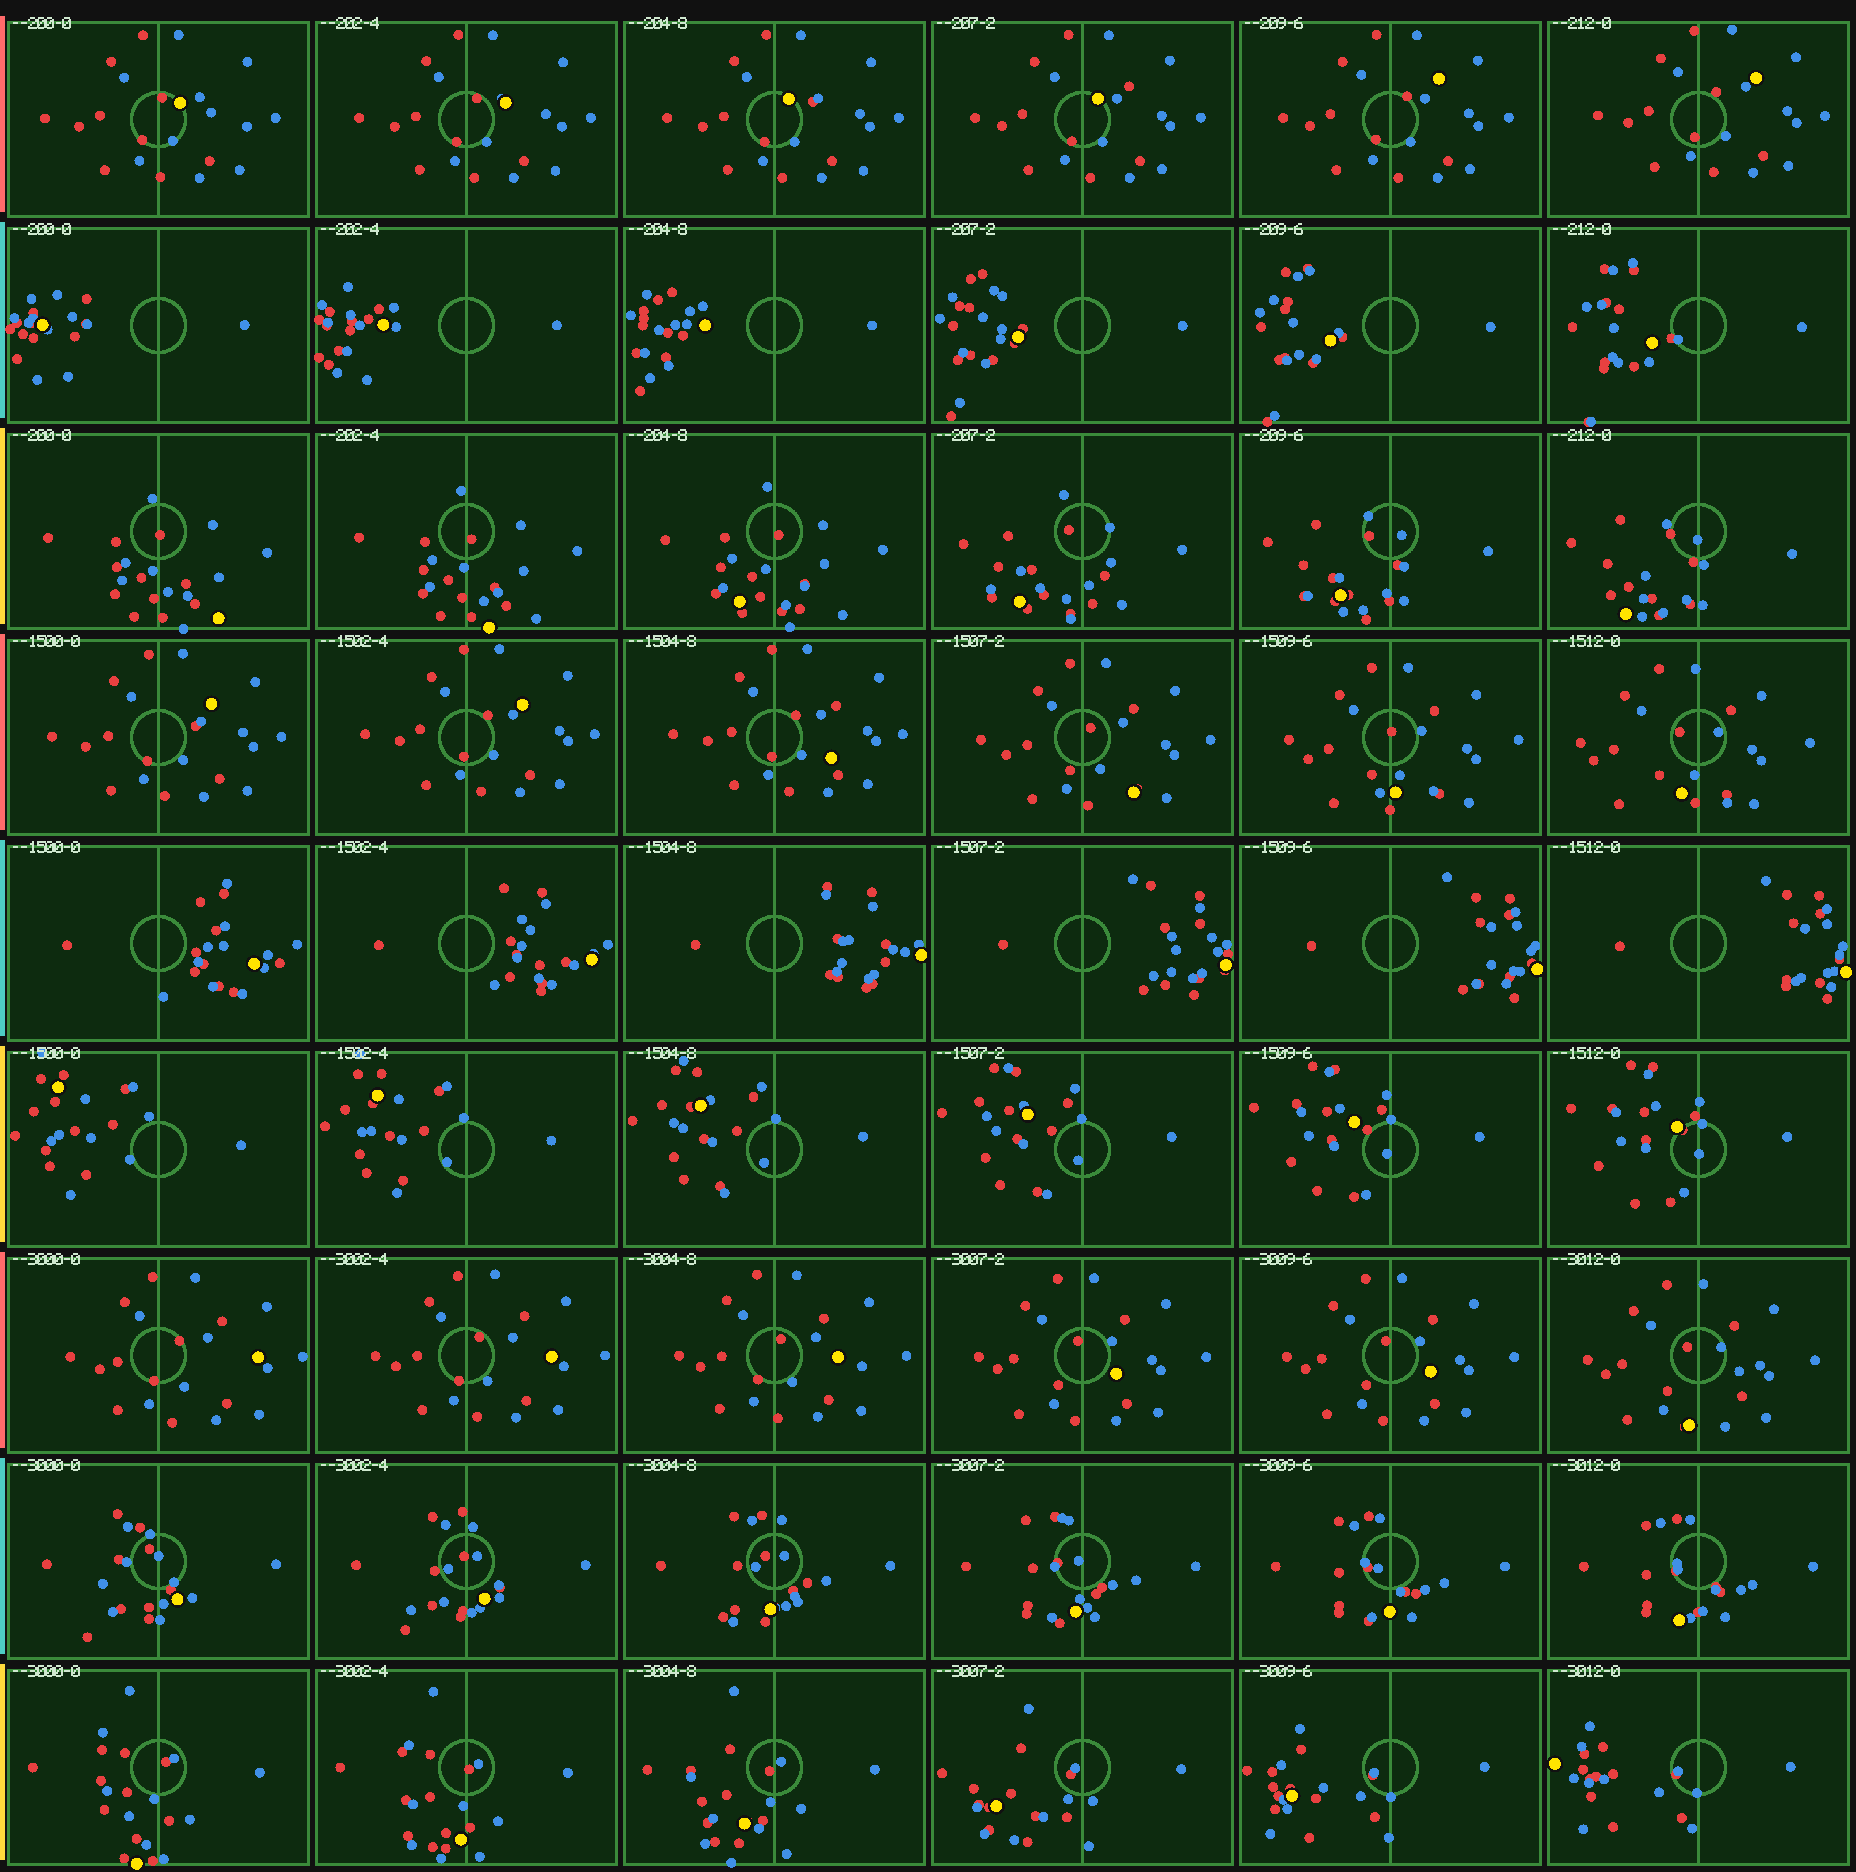
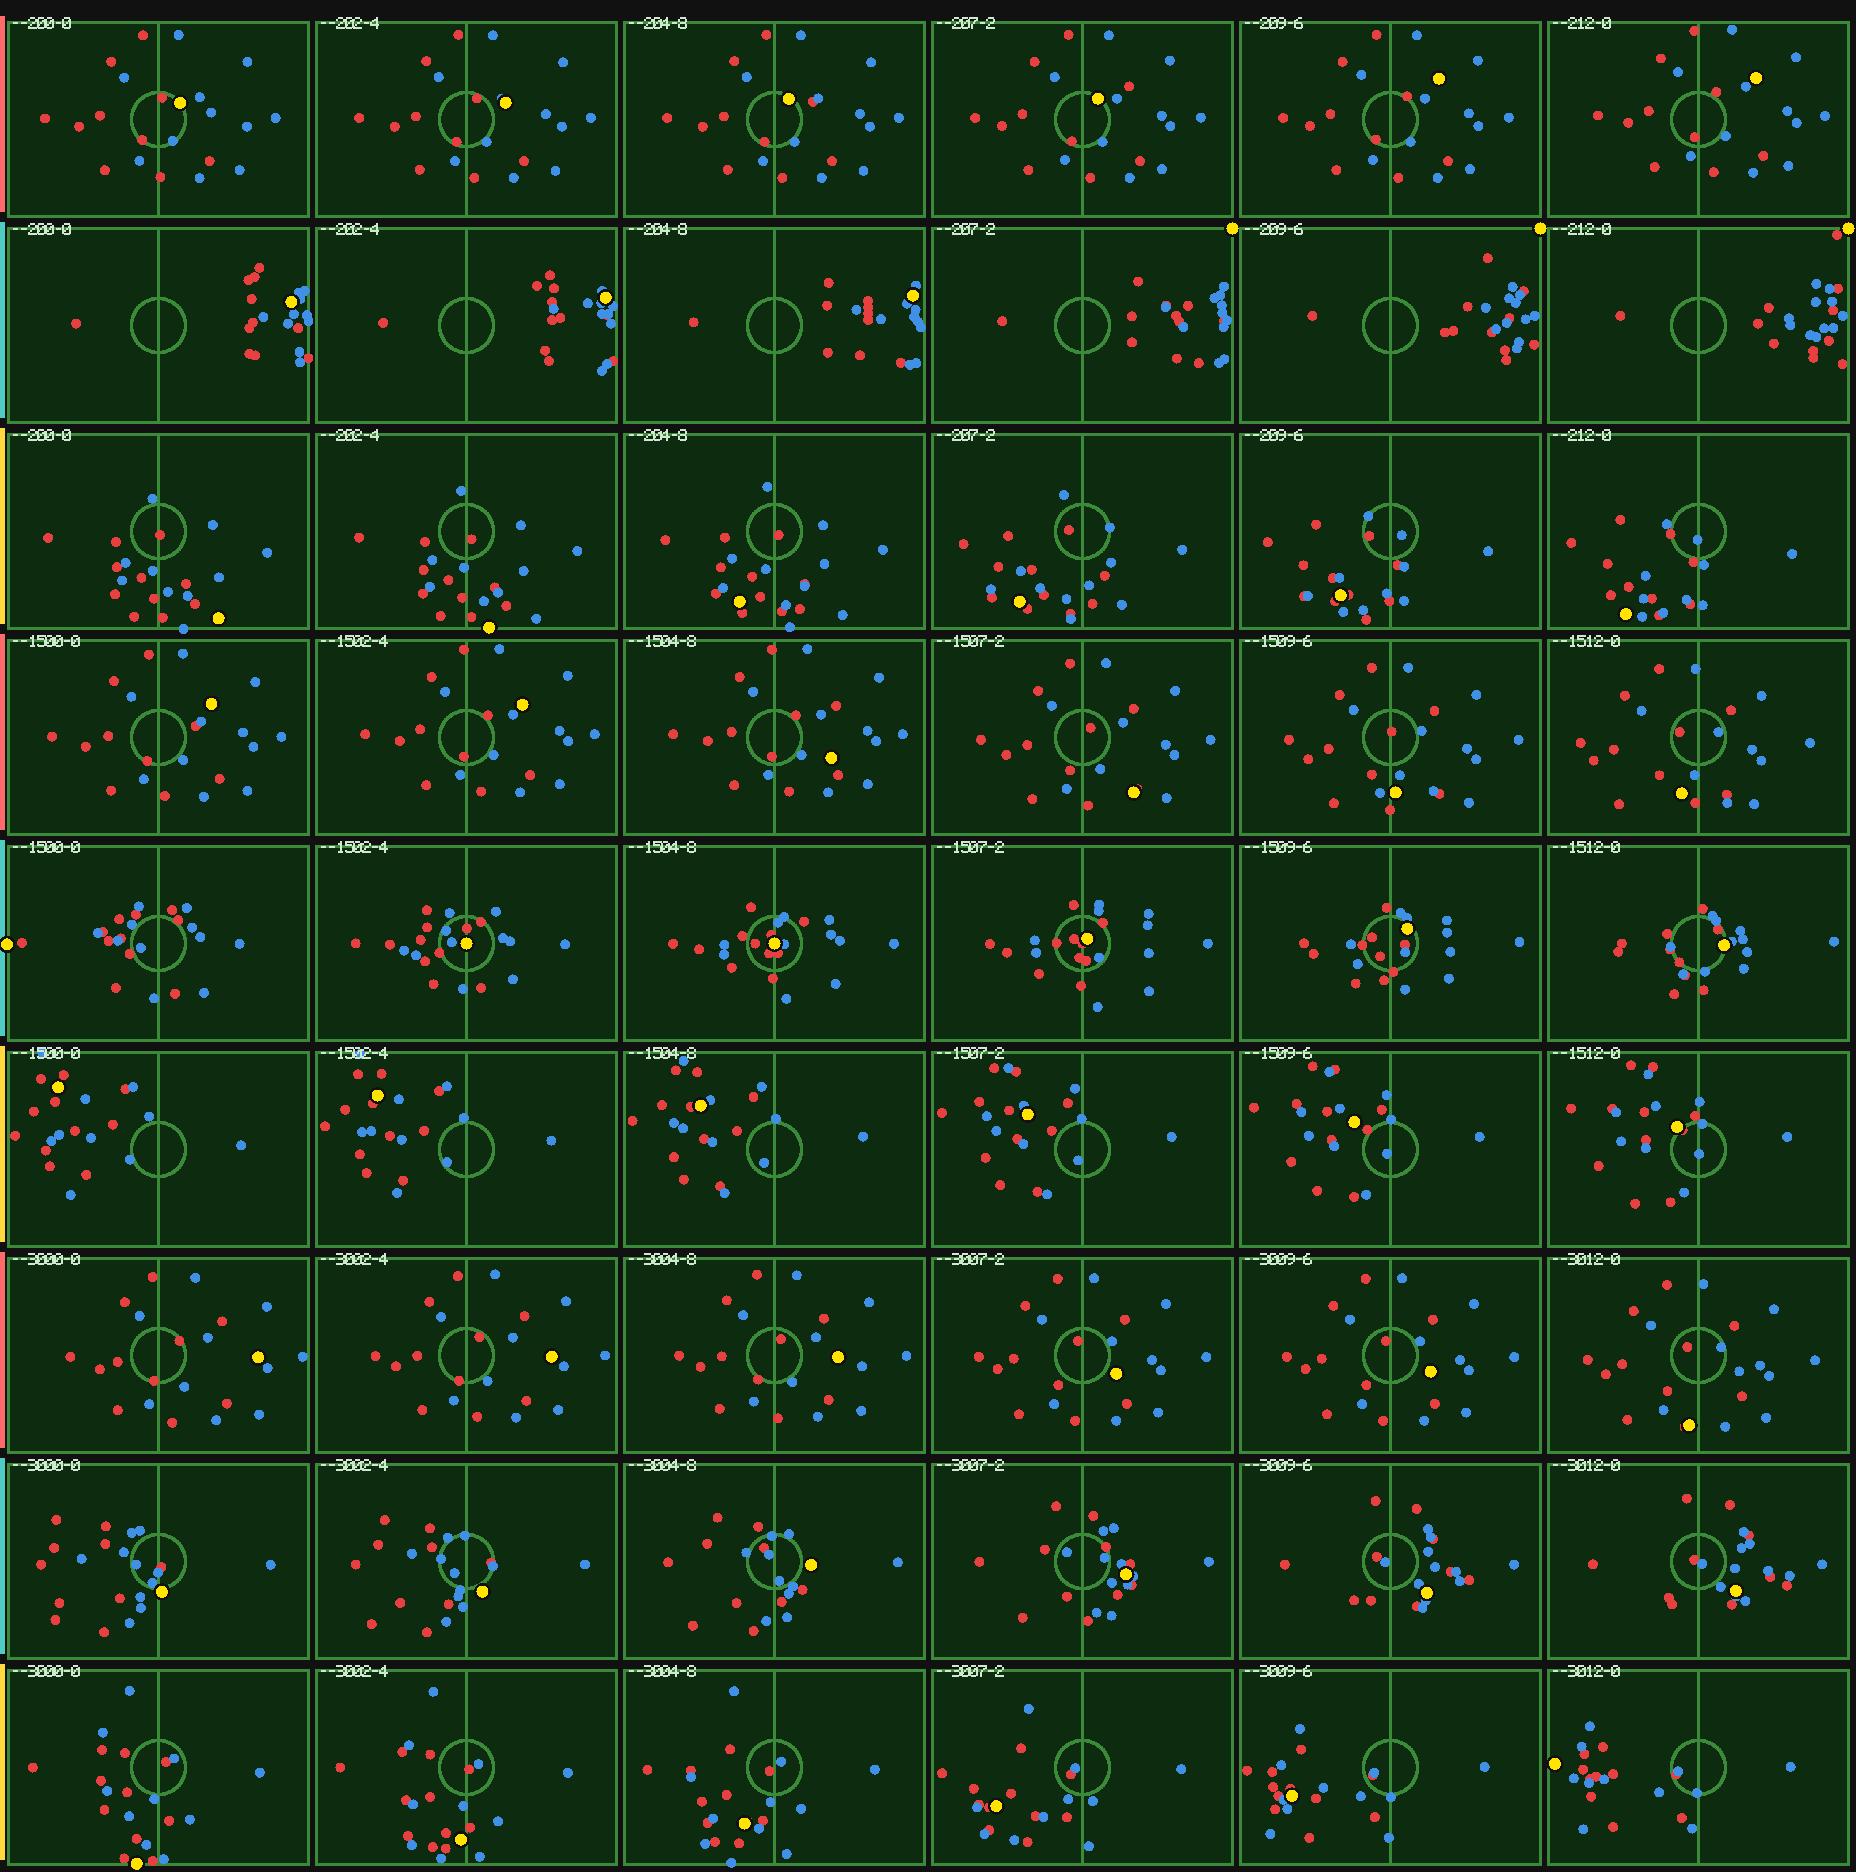
fix(engine): 盯人不再把防线拉到对方球门（issue #172 的实测回归）
## 用户看到的

蓝队（客队）整条防线跑到红队半场，身后只剩门将。

## 根因

C3 的盯人是**纯人盯人**：防守者目标 = 被盯人位置 + 5m。盯的人退到对方禁区，
防守者就一路跟到对面球门——整条防线被拉平。实测 t=21 时客队 10 名外场排在
x=0.56–0.79（跨度 24m，最深的人只离门将 12m）。

## 修了什么

盯人目标加了三道约束（`apply_marking`）：

1. **前压上限** `MARK_FRONT_LIMIT = 0.10`：最多压过中线 10m，不再往对方球门方向走。
   先试过「不许越过球」，更简单，但会把防守者钉在球线上，两队被彻底拉开——否掉。
2. **与队形目标混合** `MARK_BLEND = 0.75`：盯人是**偏移**，不是替换。
   纯盯人时全队跟着对手跑散，队形约束完全失效。
3. **最大拖拽** `MARK_MAX_DRAG_M = 22`：单个人最多偏离队形目标 22m。

## 顺带修 C2 的进攻纵深

原来进攻方锋线只在球前 7m，永远够不到对方禁区，导致红队全挤在中场。
改成球前 13–17m（随球位递进），控球方才有真正的纵深。

## 实测（5 seed × 12s 窗）

| 指标 | 修前 | 修后 | 真实 |
|---|---|---|---|
| 纵深 hd | 20.8 | **22.3** | 18.3 |
| 紧凑度 spread | 12.3 | **13.0** | 12.8 |
| 位移/窗 disp | 15.8 | **15.2** | 13.5 |
| 横向占比 lat | 0.33 | 0.33 | 0.43 |
| 重心间距 gap | 5.3 | **9.6** | 5.2 |
| 混队度 mix | 0.68 | **0.50** | 0.80 |

**这是有意的取舍**：修前 `gap`/`mix` 好看，是因为防守者跟着对手满场跑（`gap` 5.3 是
病理行为的副产品）。修后防线站住了，两项指标回落。

## 测试

`formation` 的纵深测试改成攻守两侧分别断言（控球方 30–48m、无球方 18–30m），
原来那条「11 人都在 20–30m」在加了进攻纵深后不成立。

diff --git a/engine/src/formation.rs b/engine/src/formation.rs
@@ -45,15 +45,15 @@ pub struct Keyframe {
 /// 关键帧表：球越靠近对方球门，进攻方压得越靠上、防守方收得越紧。
 pub const KEYFRAMES: [Keyframe; 5] = [
     // 球在己方禁区附近
-    Keyframe { ball_x: 0.12, atk_def: -0.14, atk_mid: -0.05, atk_fwd: 0.06, def_def: -0.09, def_mid: 0.02, def_fwd: 0.10, half_w: 0.20, shift_k: 0.32 },
+    Keyframe { ball_x: 0.12, atk_def: -0.20, atk_mid: -0.04, atk_fwd: 0.13, def_def: -0.09, def_mid: 0.02, def_fwd: 0.10, half_w: 0.20, shift_k: 0.32 },
     // 己方半场
-    Keyframe { ball_x: 0.32, atk_def: -0.16, atk_mid: -0.06, atk_fwd: 0.07, def_def: -0.10, def_mid: 0.02, def_fwd: 0.11, half_w: 0.21, shift_k: 0.36 },
+    Keyframe { ball_x: 0.32, atk_def: -0.21, atk_mid: -0.04, atk_fwd: 0.14, def_def: -0.10, def_mid: 0.02, def_fwd: 0.11, half_w: 0.21, shift_k: 0.36 },
     // 中圈
-    Keyframe { ball_x: 0.50, atk_def: -0.17, atk_mid: -0.07, atk_fwd: 0.07, def_def: -0.11, def_mid: 0.02, def_fwd: 0.12, half_w: 0.22, shift_k: 0.40 },
+    Keyframe { ball_x: 0.50, atk_def: -0.22, atk_mid: -0.05, atk_fwd: 0.15, def_def: -0.11, def_mid: 0.02, def_fwd: 0.12, half_w: 0.22, shift_k: 0.40 },
     // 对方半场
-    Keyframe { ball_x: 0.68, atk_def: -0.18, atk_mid: -0.08, atk_fwd: 0.08, def_def: -0.12, def_mid: 0.02, def_fwd: 0.13, half_w: 0.21, shift_k: 0.36 },
+    Keyframe { ball_x: 0.68, atk_def: -0.23, atk_mid: -0.05, atk_fwd: 0.16, def_def: -0.12, def_mid: 0.02, def_fwd: 0.13, half_w: 0.21, shift_k: 0.36 },
     // 对方禁区附近
-    Keyframe { ball_x: 0.88, atk_def: -0.20, atk_mid: -0.09, atk_fwd: 0.09, def_def: -0.13, def_mid: 0.02, def_fwd: 0.14, half_w: 0.19, shift_k: 0.30 },
+    Keyframe { ball_x: 0.88, atk_def: -0.24, atk_mid: -0.06, atk_fwd: 0.17, def_def: -0.13, def_mid: 0.02, def_fwd: 0.14, half_w: 0.19, shift_k: 0.30 },
 ];
 
 /// 按球 x 线性插值关键帧（范围外取端点）。
@@ -214,14 +214,20 @@ mod tests {
     }
 
     #[test]
-    fn team_vertical_extent_is_realistic() {
-        // 球在中圈时，11 人的纵向跨度应在 20–30m（真实 26m 上下）
+    fn attack_and_defence_have_realistic_vertical_extent() {
+        // 球在中圈：控球方要拉开纵深（锋线在球前 ~15m），无球方要压缩（20–30m）
         let ball = (0.5, 0.5);
-        let xs: Vec<f64> = (1..=10).map(|id| target(id, ball, true, true, 0.0).0).collect();
-        let lo = xs.iter().cloned().fold(f64::INFINITY, f64::min);
-        let hi = xs.iter().cloned().fold(f64::NEG_INFINITY, f64::max);
-        let hd_m = (hi - lo) * 105.0;
-        assert!((20.0..=30.0).contains(&hd_m), "纵深 {hd_m:.1}m 不在 20–30m");
+        let span = |attacking: bool| {
+            let xs: Vec<f64> = (1..=10).map(|id| target(id, ball, true, attacking, 0.0).0).collect();
+            let lo = xs.iter().cloned().fold(f64::INFINITY, f64::min);
+            let hi = xs.iter().cloned().fold(f64::NEG_INFINITY, f64::max);
+            (hi - lo) * 105.0
+        };
+        let atk = span(true);
+        let def = span(false);
+        assert!((30.0..=48.0).contains(&atk), "控球方纵深 {atk:.1}m 不在 30–48m");
+        assert!((18.0..=30.0).contains(&def), "无球方纵深 {def:.1}m 不在 18–30m");
+        assert!(atk > def, "控球方应当比无球方更拉开（{atk:.1} vs {def:.1}）");
     }
 
     #[test]

diff --git a/engine/src/lib.rs b/engine/src/lib.rs
@@ -663,6 +663,13 @@ pub const RUN_SPEED_MS: f64 = 4.0;
 /// C1（`realism.motion`）下的巡航速度上限（m/s）。旧 `RUN_SPEED_MS=4.0` 是恒速模型的产物，
 /// 相当于慢跑；真实比赛里无球跑动常在 6–7 m/s。仅在新路径使用，旧路径不变。
 pub const RUN_SPEED_MS_MOTION: f64 = 6.5;
+/// C3：盯人目标与队形目标的混合权重（0 = 完全队形，1 = 完全盯人）。
+/// 0.65 保留盯人的对抗性，同时让 C2 的队形约束仍然生效（否则全队被对手拉散）。
+pub const MARK_BLEND: f64 = 0.75;
+/// C3：盯人时允许压过中线的距离（归一化，0.10 ≈ 10.5m）。
+pub const MARK_FRONT_LIMIT: f64 = 0.10;
+/// C3：盯人目标相对队形目标的最大偏移（米）。
+pub const MARK_MAX_DRAG_M: f64 = 22.0;
 /// C1：每个决策拍内的积分子步数（10 × 0.1 s）。决策仍是 1 Hz，只有运动积分变细。
 pub const SIM_SUBSTEPS: u32 = 10;
 /// 门将回位速度（m/s）
@@ -3892,10 +3899,28 @@ fn apply_marking(
     let prev = if st.mark_prev.len() == def_ids.len() { st.mark_prev.clone() } else { vec![None; def_ids.len()] };
     let out = marking::assign(&def_pos, &att_pos, &prev);
     let own_goal_x = if def_team_home { 0.0 } else { 1.0 };
+    let ball = st.ball_pos;
     for (k, &id) in def_ids.iter().enumerate() {
         if let Some(j) = out[k] {
-            let aim = att_pos[j];
-            targets[id as usize] = Some(marking::mark_point(aim, own_goal_x));
+            let base = targets[id as usize]; // 盯人前 = C2 的队形目标
+            let mut t = marking::mark_point(att_pos[j], own_goal_x);
+            // ① 前压上限：最多压到对方半场 MARK_FRONT_LIMIT 处，不再往对方球门方向走。
+            //    没有这条时，盯的人退到对方禁区，防守者会一路跟到对面球门——整条防线被拉平。
+            //    （用固定线而不是「不许越过球」：后者会把防守者钉在球线上，两队被彻底拉开。）
+            let front = 0.5 + MARK_FRONT_LIMIT;
+            let back = 0.5 - MARK_FRONT_LIMIT;
+            t.0 = if def_team_home { t.0.min(front) } else { t.0.max(back) };
+            if let Some(b) = base {
+                // ② 与队形目标的最大偏离：盯人可以让防线移动，但不该把人拽到 30m 外。
+                let max_drag = MARK_MAX_DRAG_M / PITCH_LENGTH_M;
+                t.0 = b.0 + (t.0 - b.0).clamp(-max_drag, max_drag);
+            }
+            // ② 与队形目标混合：盯人是偏移，不是替换。纯盯人会让全队跟着对手跑散。
+            if let Some(b) = base {
+                t.0 = b.0 * (1.0 - MARK_BLEND) + t.0 * MARK_BLEND;
+                t.1 = b.1 * (1.0 - MARK_BLEND) + t.1 * MARK_BLEND;
+            }
+            targets[id as usize] = Some((t.0.clamp(0.03, 0.97), t.1.clamp(0.06, 0.94)));
             actions[id as usize] = "mark".to_string();
         }
         // 未匹配者保留队形目标（`run`）
